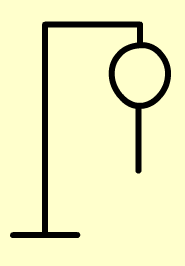
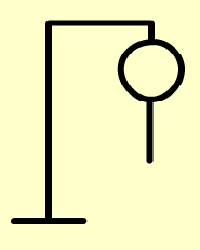
first draft of game

diff --git a/assets/js/game.js b/assets/js/game.js
@@ -1,0 +1,145 @@
+
+
+	// Create an array that lists out all of the options
+	var cat = ['c','a','t'];
+	var bear = ['b','e','a','r'];
+	var tiger = ['t','i','g','e','r'];
+	var nextWord = ['cat', 'bear', 'tiger'];
+	var myArr = [];
+	var myList = document.getElementById('letter');
+	var myListItem = "";
+	
+
+	// initialize counters
+	var wins = 0;
+	var guesses = 6;
+
+	// Create code to randomly choose one of the three words  
+	var randomNumber = Math.random();
+	var optionsIndex = Math.floor(randomNumber * nextWord.length);
+	var currWord = nextWord[optionsIndex];
+	console.log(currWord);
+
+	document.querySelector('#numWin').innerHTML = wins;
+	document.querySelector('#numGuess').innerHTML = guesses;
+
+	for(var i = 0; i < currWord.length; i++){
+		myListItem = document.createElement('li');
+		myList.appendChild(myListItem);
+	}
+
+	function reloadPage() {
+	    location.reload(true);
+	}	
+
+	function changeImage() {
+	    var image = document.querySelector("#hang");
+
+	    if (image.src.match("assets/images/hangman0.png")) {
+	        image.src = "assets/images/hangman1.png";
+	    }else if (image.src.match("assets/images/hangman1.png")) {
+	    	image.src = "assets/images/hangman2.png";
+	    }else if (image.src.match("assets/images/hangman2.png")) {
+	    	image.src = "assets/images/hangman3.png";
+	    }else if (image.src.match("assets/images/hangman3.png")) {
+	    	image.src = "assets/images/hangman4.png";
+	    }else if (image.src.match("assets/images/hangman4.png")) {
+	    	image.src = "assets/images/hangman5.png";
+	    }else if (image.src.match("assets/images/hangman5.png")) {
+	    	image.src = "assets/images/hangman6.png";
+	    }
+	    return image;
+	};
+	
+	// Captures Key Clicks
+	document.onkeyup = function (event) {
+
+		// Determines which exact key was selected. Make it lowercase
+		var userGuess = String.fromCharCode(event.keyCode).toLowerCase();
+
+		if(currWord.indexOf(userGuess) != -1 && guesses > 0){
+			if (currWord == 'cat' && userGuess == 'c') {
+				document.querySelector('#yesno').innerHTML = 'You guessed right!';
+				document.getElementsByTagName('li')[0].innerHTML = 'c';
+			}
+
+			if (currWord == 'cat' && userGuess == 'a') {
+				document.querySelector('#yesno').innerHTML = 'You guessed right!';
+				document.getElementsByTagName('li')[1].innerHTML = 'a';
+			}
+
+			if (currWord == 'cat' && userGuess == 't') {
+				document.querySelector('#yesno').innerHTML = 'You guessed right!';
+				document.getElementsByTagName('li')[2].innerHTML = 't';
+			}
+
+
+			if (currWord == 'bear' && userGuess == 'b') {
+				document.querySelector('#yesno').innerHTML = 'You guessed right!';
+				document.getElementsByTagName('li')[0].innerHTML = 'b';
+			}
+
+			if (currWord == 'bear' && userGuess == 'e') {
+				document.querySelector('#yesno').innerHTML = 'You guessed right!';
+				document.getElementsByTagName('li')[1].innerHTML = 'e';
+			}
+
+			if (currWord == 'bear' && userGuess == 'a') {
+				document.querySelector('#yesno').innerHTML = 'You guessed right!';
+				document.getElementsByTagName('li')[2].innerHTML = 'a';
+			}
+
+			if (currWord == 'bear' && userGuess == 'r') {
+				document.querySelector('#yesno').innerHTML = 'You guessed right!';
+				document.getElementsByTagName('li')[3].innerHTML = 'r';
+			}
+	
+			if (currWord == 'tiger' && userGuess == 't') {
+				document.querySelector('#yesno').innerHTML = 'You guessed right!';
+				document.getElementsByTagName('li')[0].innerHTML = 't';
+			}
+
+			if (currWord == 'tiger' && userGuess == 'i') {
+				document.querySelector('#yesno').innerHTML = 'You guessed right!';
+				document.getElementsByTagName('li')[1].innerHTML = 'i';
+			}
+
+			if (currWord == 'tiger' && userGuess == 'g') {
+				document.querySelector('#yesno').innerHTML = 'You guessed right!';
+				document.getElementsByTagName('li')[2].innerHTML = 'g';
+			}
+
+			if (currWord == 'tiger' && userGuess == 'e') {
+				document.querySelector('#yesno').innerHTML = 'You guessed right!';
+				document.getElementsByTagName('li')[3].innerHTML = 'e';
+			}
+
+			if (currWord == 'tiger' && userGuess == 'r') {
+				document.querySelector('#yesno').innerHTML = 'You guessed right!';
+				document.getElementsByTagName('li')[4].innerHTML = 'r';
+			}
+
+			document.querySelector('#next').innerHTML = 'Choose another letter!';
+			document.querySelector('#hide').innerHTML = '';
+
+		}else{
+			document.querySelector('#yesno').innerHTML = 'You guessed wrong!';
+			document.querySelector('#next').innerHTML = 'Choose another letter!';
+			document.querySelector('#hide').innerHTML = '';
+			document.querySelector('#arrLetters').innerHTML = myArr[userGuess];
+			changeImage();
+			guesses--;
+			document.querySelector('#numGuess').innerHTML = guesses;
+		}
+		if (guesses == 0){
+			document.querySelector('#next').innerHTML = 'Game over, you lost!';
+			document.getElementById('submit').style.display = 'block';
+		}
+		
+		if (document.getElementsByTagName('li').innerHTML != null){
+			document.querySelector('#next').innerHTML = 'Game over, you won!';
+			wins++;
+			document.querySelector('#numWin').innerHTML = wins;
+		}
+		
+	};

diff --git a/assets/css/style.css b/assets/css/style.css
@@ -1,9 +1,3 @@
-/*		<div id="title"></div>
-		<div id="clear"></div>
-		<div id="hangman"></div>
-		<div id="content"></div>
-		<div id="clear"></div>
-		<div id="letters"></div>*/
 * {
   box-sizing: border-box;
 }
@@ -17,7 +11,7 @@ body{
     position: static;
     height:100%;
     width: 100%;
-    background-image: url("../images/concrete_seamless.png");
+    background-color: black;
     background-size: all;
     background-attachment: scroll;
 }
@@ -31,13 +25,6 @@ body{
     clear: both;
 }
 
-#hangman{	
-	float: left;
-	height: 500px;
-	width: 50%;
-	background-color: blue;
-}
-
 #game{
 	display: inline;
 	float: left;
@@ -46,11 +33,16 @@ body{
 }
 
 #content{
+	padding: 50px 75px 50px 75px;
+	text-align: center;
 	display: inline;
 	float: right;
 	height: 400px;
 	width: 100%;
-	background-color: yellow;
+	background-color: #b48484;
+    border-width:5px;	
+    border-style:dotted solid;
+	font-family: 'Oswald', sans-serif;
 }
 
 #letters{
@@ -58,26 +50,52 @@ body{
 	float: left;
 	height: 100px;
 	width: 100%;
-	background-color: orange;
-}
-
-#hangman fieldset{
-	border: 1px solid;
-	padding: 200px;
-	margin: 20px;
-}
-#content fieldset{
-	border: 1px solid;
-	padding: 160px;
-	margin: 20px;
-}
-#letters fieldset{
-	border: 1px solid;
-	padding: 20px;
-	margin: 20px;
+	background-color: #3c2424;
+	border-width:5px;	
+    border-style:solid;
+    border-top: none;
 }
 
 h1{
-	font-size: 36px;
+	font-size: 48px;
 	padding: 20px;
+	text-align: center;
+	color: #b48484;
+}
+
+#hangman{
+	display: block;
+	float: left;
+	height: 500px;
+	width: 50%;
+	background-image: url("../../assets/images/thehangman.png");
+	background-repeat: no-repeat;
+	border-style: solid;
+	border-width: 5px;
+	border-right: none;
+}
+
+#hang{
+	display: block;
+	position: relative;
+	margin: 0 auto;
+	margin-top: 125px;
+	width: 200px;
+	height: 250px;
+	opacity: 0.4;
+}
+
+li {
+    display: inline-block;
+    border-bottom: 2px solid black;
+    color: black;
+    width: 30px;
+    height: inherit;
+    margin-right: 10px;
+    padding-bottom: 2px;
+}
+
+#submit{
+	display: none;
+	margin: 0 auto;
 }

diff --git a/index.html b/index.html
@@ -1,4 +1,3 @@
-<!DOCTYPE html>
 <html>
 <head>
 	<title>Hang Man</title>
@@ -9,34 +8,49 @@
 	<link rel="stylesheet" type="text/css" href="assets/css/reset.css">
 	<link href='https://fonts.googleapis.com/css?family=Oswald' rel='stylesheet' type='text/css'>
 	<link rel="stylesheet" type="text/css" href="assets/css/style.css">
+
+	
 </head>
 <body>
 	<div class="container">
 		<h1>Welcome to Hangman by Emad!</h1>
 		<div id="hangman">
-			<form>
-				<fieldset>
-					<legend>Hangman:</legend>					  
-				</fieldset>
-			</form>
+			<img id="hang" src="assets/images/hangman0.png" alt="hangman">
+					
+			</img>
 		</div>
 		<div class="container" id="game">
 			<div id="content">
-				<form>
-					<fieldset>
-						<legend>Game:</legend>					  
-					</fieldset>
-				</form>
+				<p>The theme is animals. <span id="hide">Please choose your first letter!</span> </p>
+				<br>
+				<p id="yesno"></p>
+				<br>
+				<ul id="letter"></ul>
+				<br>
+				<p id="next"></p>
+				<br>
+				<p># of guesses left</p>
+				<br>
+				<p id="numGuess"></p>
+				<br>
+				<p># of Wins</p>
+				<br>
+				<p id="numWin"></p>
+				<br>
+				<input type="submit" value="Play Again" id="submit" onclick="reloadPage()">
+				
 			</div>
-			<div class="clear"></div>	
+			<div class="clear">
+				
+			</div>	
 			<div id="letters">
-				<form>
-					<fieldset>
-						<legend>Letters:</legend>					  
-					</fieldset>
-				</form>
+				<p id="arrLetters">
+					
+				</p>
 			</div>	
 		</div>	
 	</div>
+
+	<script type="text/javascript" src="assets/js/game.js"></script>
 </body>
 </html>
